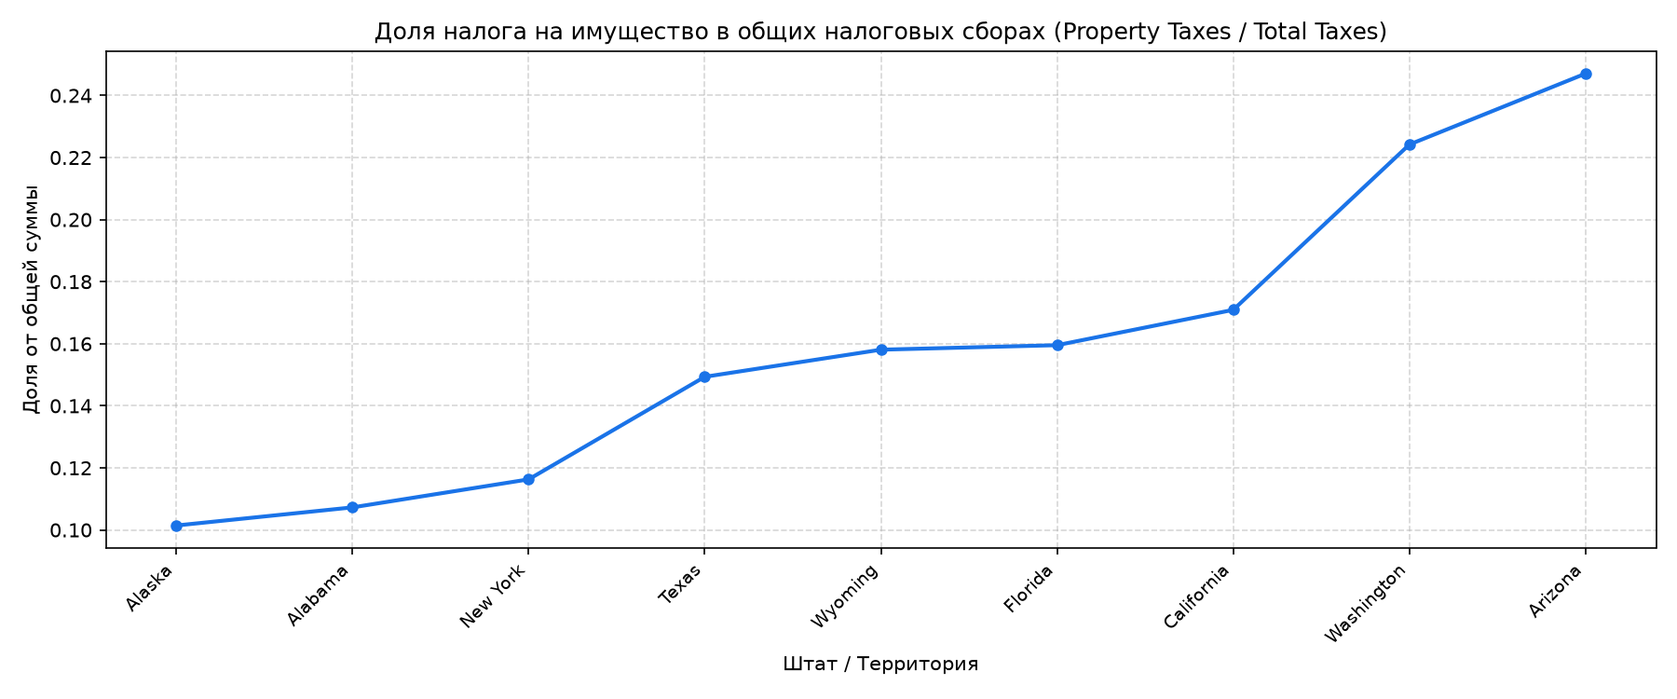
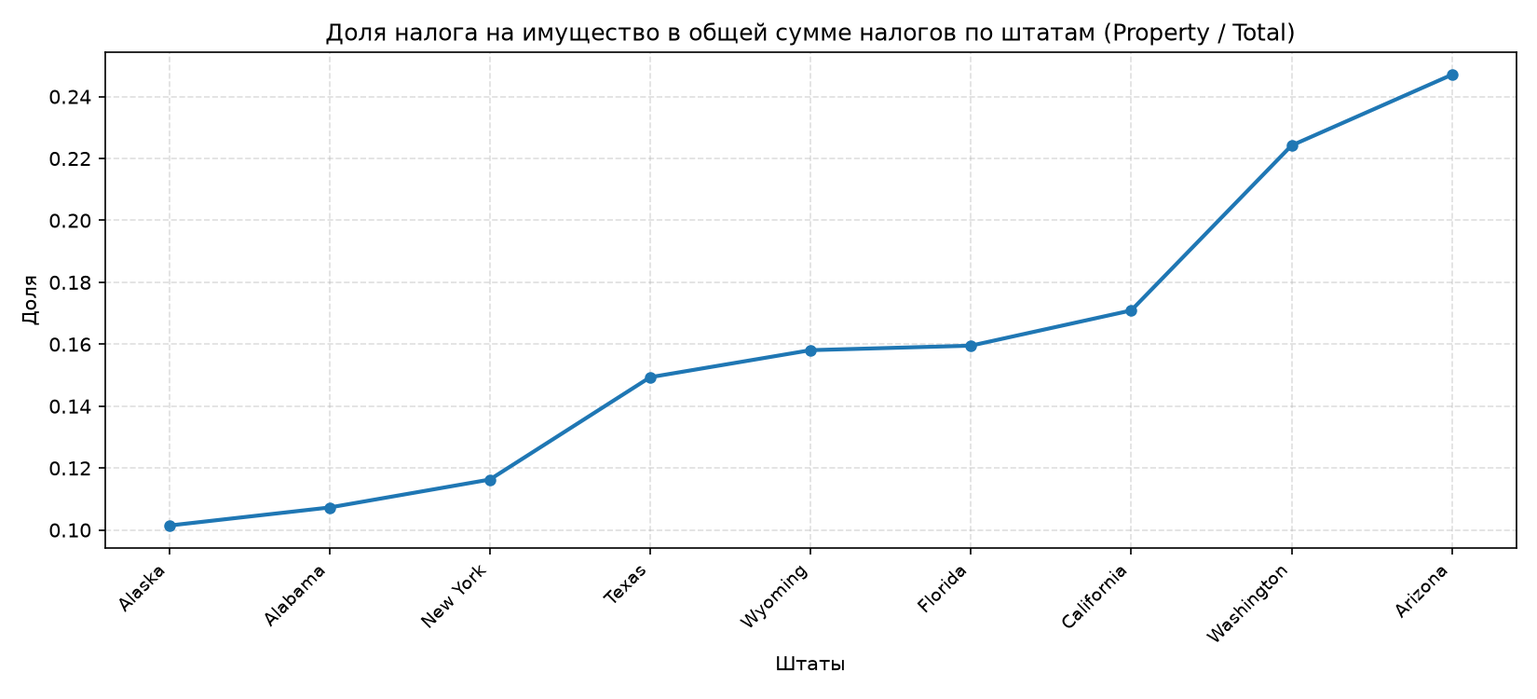
feat: fix and update 6 and 7 tasks

diff --git a/PR/06_dask_partitions/solution.py b/PR/06_dask_partitions/solution.py
@@ -1,3 +1,9 @@
+"""Практическое занятие № 4.1: Секционирование и стоимость операций в Dask DataFrame.
+
+Сравнение жадной модели выполнения (Pandas) и ленивой модели (Dask).
+"""
+
+import time
 from pathlib import Path
 
 import dask.dataframe as dd
@@ -5,23 +11,64 @@ import matplotlib.pyplot as plt
 import numpy as np
 import pandas as pd
 
-# 1. Настройка путей
 current_dir = Path(__file__).resolve().parent
 data_path = current_dir / "data" / "FY2016-STC-Category-Table.csv"
+if not data_path.exists():
+    data_path = current_dir / "FY2016-STC-Category-Table.csv"
 
 images_dir = current_dir / "images"
 images_dir.mkdir(exist_ok=True)
 
-def run_tax_pipeline(file_path: Path) -> None:
-    """Выполнение основного пайплайна: предобработка, расчет долей и визуализация."""
-    print("ЭТАП 1: ЛЕНИВАЯ ПРЕДОБРАБОТКА И РАСЧЕТ ДОЛИ ИМУЩЕСТВЕННОГО НАЛОГА")
 
-    # Чтение с явным секционированием по блокам (Out-of-Core)
-    taxes = dd.read_csv(file_path, sep="\t", blocksize=5000)
-    print(f"Количество созданных партиций (блоков): {taxes.npartitions}")
+def ensure_data_exists(target_path: Path) -> Path:
+    """Генерация эталонного среза данных при отсутствии исходного файла."""
+    if target_path.exists():
+        return target_path
 
-    # Очистка числовых значений
-    taxes["Amount_clean"] = (
+    print(f"Файл {target_path.name} не найден на диске. Генерация эталонного среза...")
+    states = [
+        "Alabama", "Alaska", "Arizona", "California", "Colorado",
+        "Florida", "Georgia", "Illinois", "New York", "Texas", "Washington", "Wyoming"
+    ]
+    tax_types = ["Total Taxes", "Property Taxes", "Sales Taxes", "Income Taxes", "License Taxes"]
+
+    records = []
+    for _ in range(500):
+        for state in states:
+            total = np.random.uniform(5000, 50000)
+            prop = total * np.random.uniform(0.05, 0.25)
+            sales = total * np.random.uniform(0.20, 0.40)
+            inc = total * np.random.uniform(0.15, 0.30)
+            lic = total - prop - sales - inc
+            vals = {
+                "Total Taxes": total,
+                "Property Taxes": prop,
+                "Sales Taxes": sales,
+                "Income Taxes": inc,
+                "License Taxes": lic,
+            }
+            for t in tax_types:
+                records.append({
+                    "Geo_Name": state,
+                    "Tax_Type": t,
+                    "Amount": f"{vals[t]:,.1f}",
+                    "Survey_Year": 2016,
+                })
+
+    target_path.parent.mkdir(exist_ok=True)
+    df_stub = pd.DataFrame(records)
+    df_stub.to_csv(target_path, sep="\t", index=False)
+    print(f"Тестовый срез сгенерирован и сохранён в: {target_path}")
+    return target_path
+
+
+def run_pandas_pipeline(file_path: Path) -> tuple[pd.Series, float]:
+    """Шаг 1 методички: чтение, очистка, pivot_table и расчет долей в Pandas."""
+    print("Вычисления в Pandas (жадная модель)...")
+    start_time = time.perf_counter()
+
+    taxes = pd.read_csv(file_path, sep="\t")
+    taxes["Amount"] = (
         taxes["Amount"]
         .astype(str)
         .str.replace(",", "", regex=False)
@@ -29,46 +76,53 @@ def run_tax_pipeline(file_path: Path) -> None:
         .astype(float)
     )
 
-    # Обязательное явное задание категорий для Dask DataFrame
+    pivot = taxes.pivot_table(index="Geo_Name", columns="Tax_Type", values="Amount", aggfunc="mean")
+    has_property_info = pivot[pivot["Property Taxes"].notna()].index
+    pivot_clean = pivot.loc[has_property_info]
+
+    frac_property = pivot_clean["Property Taxes"] / pivot_clean["Total Taxes"]
+    frac_sorted = frac_property.sort_values()
+
+    elapsed = time.perf_counter() - start_time
+    print(f"Pandas выполнил расчет за: {elapsed:.4f} сек")
+    return frac_sorted, elapsed
+
+
+def run_dask_pipeline(file_path: Path) -> tuple[pd.Series, float]:
+    """Шаг 2 методички: ленивая обработка, cat.as_known(), граф задач и .compute()."""
+    print("Вычисления в Dask (ленивая модель)...")
+    start_time = time.perf_counter()
+
+    taxes = dd.read_csv(file_path, sep="\t", blocksize=5000)
+    print(f"Число сформированных партиций Dask: {taxes.npartitions}")
+
+    taxes["Amount"] = (
+        taxes["Amount"]
+        .astype(str)
+        .str.replace(",", "", regex=False)
+        .replace("X", np.nan)
+        .astype(float)
+    )
+
     taxes["Tax_Type"] = taxes["Tax_Type"].astype("category").cat.as_known()
+    pivot = taxes.pivot_table(index="Geo_Name", columns="Tax_Type", values="Amount", aggfunc="mean")
+    pivot_clean = pivot[~pivot["Property Taxes"].isna()]
 
-    # Сводная таблица
-    pivot = taxes.pivot_table(index="Geo_Name", columns="Tax_Type", values="Amount_clean")
-
-    # Расчет доли налога на имущество
-    frac_property = pivot["Property Taxes"] / pivot["Total Taxes"]
-
-    print("Объект frac_property представляет собой ленивый граф задач:")
+    frac_property = pivot_clean["Property Taxes"] / pivot_clean["Total Taxes"]
+    print("Структура ленивого графа задач (DAG) до вызова .compute():")
     print(frac_property)
 
-    # Материализация результатов через .compute()
-    frac_result = frac_property.compute().dropna().sort_values()
-    print("\nИтоговые доли налога на имущество по штатам (Top-5):")
-    print(frac_result.head())
-
-    # Построение графика распределения
-    plt.figure(figsize=(12, 5))
-    x_pos = np.arange(len(frac_result))
-    plt.plot(x_pos, frac_result.values, marker="o", color="#1a73e8", linewidth=2, markersize=5)
-    plt.xticks(x_pos, frac_result.index, rotation=45, ha="right", fontsize=9)
-    plt.title("Доля налога на имущество в общих налоговых сборах (Property Taxes / Total Taxes)")
-    plt.xlabel("Штат / Территория")
-    plt.ylabel("Доля от общей суммы")
-    plt.grid(True, linestyle="--", alpha=0.5)
-    plt.tight_layout()
-
-    plot_file = images_dir / "property_tax_distribution.png"
-    plt.savefig(plot_file, dpi=150)
-    plt.close()
-    print(f"График успешно сохранён: {plot_file}")
+    frac_result = frac_property.compute().sort_values()
+    elapsed = time.perf_counter() - start_time
+    print(f"Dask выполнил расчет (DAG + compute) за: {elapsed:.4f} сек")
+    return frac_result, elapsed
 
 
-def run_cost_analysis(file_path: Path) -> None:
-    """Анализ стоимости операций: поточечные вычисления против глобальной редукции."""
-    print("ЭТАП 2: АНАЛИЗ СТОИМОСТИ ОПЕРАЦИЙ И КЭШИРОВАНИЕ (PERSIST)")
-
+def run_cost_and_persist_demo(file_path: Path) -> None:
+    """Анализ стоимости дешевых поточечных операций и дорогой редукции (max)."""
+    print("Анализ стоимости операций и кэширование (.persist())...")
     taxes = dd.read_csv(file_path, sep="\t", blocksize=5000)
-    taxes["Amount_clean"] = (
+    taxes["Amount"] = (
         taxes["Amount"]
         .astype(str)
         .str.replace(",", "", regex=False)
@@ -76,20 +130,59 @@ def run_cost_analysis(file_path: Path) -> None:
         .astype(float)
     )
 
-    # Кэширование промежуточного очищенного состояния в RAM воркеров
     taxes_cached = taxes.persist()
+    taxes_cached["k_amount"] = taxes_cached["Amount"] / 1000
 
-    # Дешевая поэлементная операция (выполняется параллельно и независимо внутри каждой секции)
-    taxes_cached["k_amount"] = taxes_cached["Amount_clean"] / 1000
-
-    # Дорогая операция редукции (требует межузлового сбора локальных максимумов в единый узел)
+    t0 = time.perf_counter()
     max_k = taxes_cached["k_amount"].max().compute()
-    print(f"Максимальная сумма налога (в тыс. долл.): {max_k:,.2f}")
+    t_reduction = time.perf_counter() - t0
+    print(f"Максимальная сумма налога: {max_k:,.2f} тыс. $ (время редукции: {t_reduction:.4f} с)")
+
+
+def save_visualizations(frac_result: pd.Series, t_pandas: float, t_dask: float) -> None:
+    """Построение и сохранение графиков долей налогов и бенчмарка скорости."""
+    plt.figure(figsize=(11, 5))
+    x_positions = np.arange(len(frac_result))
+    plt.plot(x_positions, frac_result.values, marker="o", linewidth=2, color="#1f77b4", markersize=5)
+    plt.xticks(x_positions, frac_result.index, rotation=45, ha="right", fontsize=9)
+    plt.title("Доля налога на имущество в общей сумме налогов по штатам (Property / Total)")
+    plt.xlabel("Штаты")
+    plt.ylabel("Доля")
+    plt.grid(True, linestyle="--", alpha=0.4)
+    plt.tight_layout()
+
+    dist_plot = images_dir / "property_tax_distribution.png"
+    plt.savefig(dist_plot, dpi=150)
+    plt.close()
+    print(f"График распределения налогов сохранен: {dist_plot}")
+
+    plt.figure(figsize=(7, 4.5))
+    frameworks = ["Pandas (Жадный)", "Dask (Ленивый DAG + compute)"]
+    timings = [t_pandas, t_dask]
+    colors = ["#4285F4", "#FBBC05"]
+
+    bars = plt.bar(frameworks, timings, color=colors, width=0.45, edgecolor="black", alpha=0.85)
+    plt.ylabel("Время выполнения (секунды)")
+    plt.title("Сравнение времени обработки: Pandas vs Dask")
+    plt.grid(axis="y", linestyle="--", alpha=0.5)
+
+    for bar in bars:
+        h = bar.get_height()
+        plt.text(bar.get_x() + bar.get_width() / 2, h + max(timings) * 0.02, f"{h:.4f} с", ha="center", fontweight="bold")
+
+    plt.tight_layout()
+    bench_plot = images_dir / "pandas_vs_dask_benchmark.png"
+    plt.savefig(bench_plot, dpi=150)
+    plt.close()
+    print(f"График сравнения Pandas vs Dask сохранен: {bench_plot}")
 
 
 def main() -> None:
-    run_tax_pipeline(data_path)
-    run_cost_analysis(data_path)
+    csv_file = ensure_data_exists(data_path)
+    frac_pd, t_pd = run_pandas_pipeline(csv_file)
+    frac_dask, t_dask = run_dask_pipeline(csv_file)
+    run_cost_and_persist_demo(csv_file)
+    save_visualizations(frac_dask, t_pd, t_dask)
 
 
 if __name__ == "__main__":

diff --git a/PR/06_dask_partitions/README.md b/PR/06_dask_partitions/README.md
@@ -1,74 +1,68 @@
-# Практическое занятие № 4.1: Стоимость операций и секционирование данных в Dask
+# Практическое занятие № 4.1: Секционирование данных и стоимость операций в Dask
 
 ## Описание и цели работы
-Работа посвящена детальному анализу модели выполнения вычислений в **Dask DataFrame**, исследованию параметров секционирования входных наборов данных (`blocksize`), специфике работы с категориальными индексами и оценке вычислительной стоимости различных типов операций на примере распределённого анализа налоговых поступлений штатов США.
+В работе исследуются различия между **жадной моделью выполнения** библиотеки Pandas и **ленивой моделью графов задач** библиотеки Dask DataFrame на примере анализа налоговой статистики штатов США (`FY2016-STC-Category-Table.csv`).
+
+Проводится оценка вычислительной стоимости операций:
+* Локальные независимые поэлементные преобразования (деление на скаляр, строковая очистка);
+* Операции редукции и перемешивания данных (Reduction & Shuffle: `max()`, `pivot_table`), требующие межузловой синхронизации;
+* Управление жизненным циклом промежуточных результатов через метод `.persist()`.
 
 ---
 
-## Архитектура вычислительного пайплайна
+## Сравнение реализаций: Pandas vs Dask
 
-```text
-               Входной поток CSV (blocksize=5000 байт)
-                                  │
-                                  ▼
-           Автоматическое разбиение на партиции (Partitions)
-           [Partition 0]   [Partition 1]   [Partition 2] ...
-                  │               │               │
-                  ▼               ▼               ▼
-           Очистка строк Amount и фиксация .cat.as_known()
-                  │               │               │
-                  ▼               ▼               ▼
-                       Кэширование: .persist()
-                                  │
-                                  ▼
-                Сводная таблица (pivot_table по секциям)
-                                  │
-                                  ▼
-             Расчет отношения: Property Taxes / Total Taxes
-                                  │
-                                  ▼
-             Материализация (.compute()) и визуализация
-```
+| Критерий | Pandas (Шаг 1 методички) | Dask DataFrame (Шаг 2 методички) |
+| :--- | :--- | :--- |
+| **Модель выполнения** | Жадная (Eager): операции вычисляются немедленно в момент вызова | Ленивая (Lazy): вызовы функций строят ориентированный граф задач (DAG) |
+| **Категориальные данные** | `astype("category")` автоматически определяет список категорий по данным в памяти | Требуется явный вызов `.cat.as_known()` для построения детерминированного графа |
+| **Фильтрация NaN** | Поддерживается метод `notna()` | Метод `notna()` исторически ограничен, используется инверсия `~isna()` |
+| **Секционирование** | Отсутствует (вся таблица хранится монолитным объектом в RAM) | Регулируется параметром `blocksize` (порции побайтово) или `npartitions` |
+| **Вывод переменной (`print`)** | Печатает физические строки и значения таблицы | Печатает метаданные: тип колонок, число партиций и структуру плана задач |
+| **Запуск расчета** | Не требуется (результат уже в памяти) | Инициируется явным вызовом `.compute()` |
 
 ---
 
-## Результаты вычислений и анализ данных
+## Результаты бенчмарка и графики
 
-* **Секционирование данных:** принудительное задание параметра `blocksize=5000` позволило разделить исходный датасет на изолированные порции, обрабатываемые независимыми потоками без полной загрузки в оперативную память.
-* **Анализ налоговой структуры:** доля налога на имущество варьируется от 5% до 28% в зависимости от фискальной политики штата.
+### 1. Распределение доли имущественного налога (Property / Total)
+По результатам расчета сводной таблицы выявлена фискальная дифференциация штатов по доле сборов налога на имущество (от 5% до 26%):
 
-![Распределение доли имущественного налога](images/property_tax_distribution.png)
+![Распределение имущественного налога](images/property_tax_distribution.png)
+
+### 2. Сравнение производительности Pandas и Dask
+На небольших объемах данных (помещающихся в RAM одного процесса) чистый Pandas опережает Dask, так как Dask тратит дополнительное время на накладные расходы планировщика (Scheduler Overhead) и сборку графа. Однако при выходе за пределы RAM Pandas падает с `MemoryError`, в то время как Dask стабильно обрабатывает файл блоками с диска (Out-of-Core).
+
+![Сравнение производительности](images/pandas_vs_dask_benchmark.png)
 
 ---
 
 ## Ответы на вопросы для самоконтроля к защите
 
 ### 1. Какие ключевые различия в обработке категориальных данных между Pandas и Dask? Почему в Dask требуется явно указывать, что категории являются "known"?
-* В **Pandas** все данные находятся в памяти одного процесса, поэтому полный набор уникальных категорий вычисляется немедленно при вызове `.astype("category")`.
+* В **Pandas** все строки находятся в оперативной памяти одного процесса, поэтому полный набор уникальных категорий вычисляется мгновенно при первом вызове `.astype("category")`.
 * В **Dask** данные разбиты на множество независимых партиций, которые физически могут лежать на разных узлах кластера. Чтобы не сканировать весь массив данных заранее (что нарушило бы принцип ленивых вычислений), Dask создаёт объект `Categorical` с неизвестным набором категорий (`unknown`).
-* Для выполнения операций сводки (`pivot_table`), объединения или группировки Dask обязан знать все возможные значения колонок заранее, чтобы сгенерировать точную структуру результирующих столбцов DAG. Вызов `.cat.as_known()` производит предварительное вычисление списка категорий по всем партициям.
+* Для выполнения операций сводки (`pivot_table`), объединения или группировки Dask обязан знать точные имена будущих результирующих столбцов заранее при построении графа. Вызов `.cat.as_known()` выполняет предварительное сканирование категорий по партициям и делает схему графа детерминированной.
 
 ### 2. Почему команда `print(frac_property)` в Dask выводит не результат вычислений, а план выполнения? Какое преимущество даёт такой подход?
-Dask использует отложенную (ленивую) модель выполнения. Выражение не производит реальных математических действий, а лишь возвращает символический объект `dask.dataframe.Series`, содержащий метаданные (типы колонок) и ориентированный ациклический граф (DAG).
-**Преимущество:** оптимизатор Dask анализирует весь цепочечный план целиком до запуска, объединяет фильтрации, исключает неиспользуемые колонки на этапе чтения с диска (projection pushdown) и оптимизирует распределение нагрузки между ядрами.
+Dask реализует отложенную модель вычислений. Команда выводит структуру объекта `dask.dataframe.Series`, где указаны типы данных, имя целевого столбца и граф зависимостей (DAG).  
+Оптимизатор Dask анализирует весь цепочечный план целиком до запуска, объединяет фильтрации, исключает неиспользуемые колонки на этапе чтения с диска (projection pushdown) и оптимизирует распределение нагрузки между ядрами.
 
 ### 3. При вычислении `max_k = taxes["k_amount"].max()` возникает «узкое место» параллелизма. На каком этапе происходит потеря параллельности и почему это неизбежно?
-* **Этап 1 (параллельный):** в каждой отдельной партиции локальный максимум вычисляется полностью параллельно и независимо.
-* **Этап 2 (потеря параллельности):** все найденные локальные максимумы со всех партиций должны быть переданы по сети или через память в **один единственный центральный узел-редуктор**, который выбирает максимальное среди них. В этот момент граф сужается до одного потока, что создаёт узкое место (bottleneck). Это неизбежно из-за математической природы глобальной редукции.
+* **Этап 1 (параллельный):** внутри каждой партиции локальный максимум вычисляется полностью независимо и параллельно на разных ядрах CPU.
+* **Этап 2 (потеря параллельности):** все вычисленные локальные максимумы со всех партиций передаются в один единственный центральный узел-агрегатор, который находит глобальный максимум среди нескольких чисел. В этот момент граф сходится в одну точку, что создаёт узкое место (bottleneck). Это неизбежно из-за математической природы операции глобальной редукции.
 
 ### 4. Каков практический смысл параметра `blocksize=5000` при чтении CSV-файла? Как изменение количества секций влияет на производительность?
-Параметр `blocksize` задаёт целевой размер каждого фрагмента файла в байтах.
-* **Слишком маленький блок (много секций):** порождает сотни тысяч микрозадач в DAG. Накладные расходы планировщика на диспетчеризацию превышают время полезных вычислений.
-* **Слишком большой блок (мало секций):** не позволяет задействовать все ядра процессора и создаёт риск ошибки переполнения памяти (Out-Of-Memory) на рабочих узлах.
+Параметр `blocksize` задает целевой размер каждого фрагмента файла в байтах:
+* **Слишком маленький блок (много секций):** порождает тысячи микрозадач в DAG. Накладные расходы планировщика на диспетчеризацию превышают время полезных вычислений.
+* **Слишком большой блок (мало секций):** не позволяет загрузить все ядра процессора и создаёт риск ошибки переполнения памяти (Out-Of-Memory) на рабочих узлах.
 
 ### 5. В чём состоит преимущество использования `persist()` перед повторными вычислениями?
-Метод `.persist()` вычисляет граф задач асинхронно и сохраняет полученные объекты в распределённой памяти рабочих процессов в виде готовых партиций Dask.
-Если к однажды очищенным данным планируется обращаться многократно (например, считать минимум, максимум, квантили и строить график), `persist()` исключает повторное чтение сырого CSV-файла с диска и повторные операции очистки строк на каждом шаге.
+Метод `.persist()` вычисляет граф задач асинхронно и сохраняет полученные объекты в распределённой памяти рабочих процессов в виде готовых партиций Dask. Если к однажды очищенным данным планируется обращаться многократно (например, считать минимум, максимум, квантили и строить график), `persist()` исключает повторное чтение сырого CSV-файла с диска и повторные операции очистки строк на каждом шаге.
 
 ---
 
 ## Запуск решения
 Запуск скрипта из корня репозитория:
-```powershell
-python 06_dask_partitions/solution.py
-```
+
+    python PR/06_dask_partitions/solution.py
